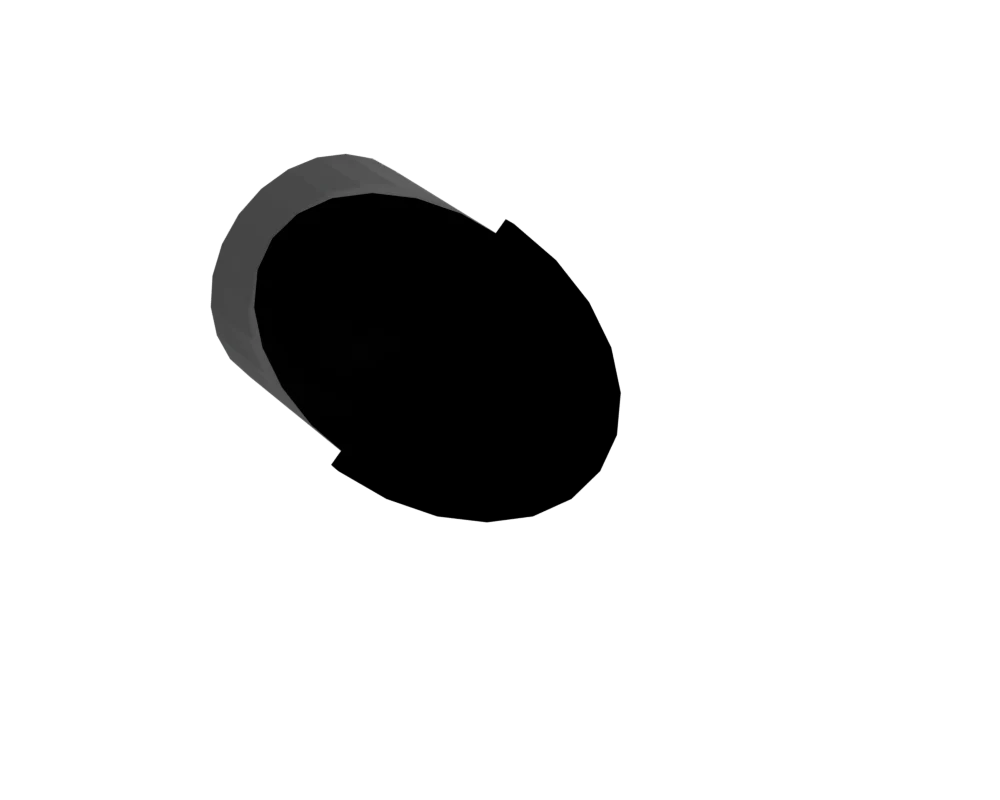
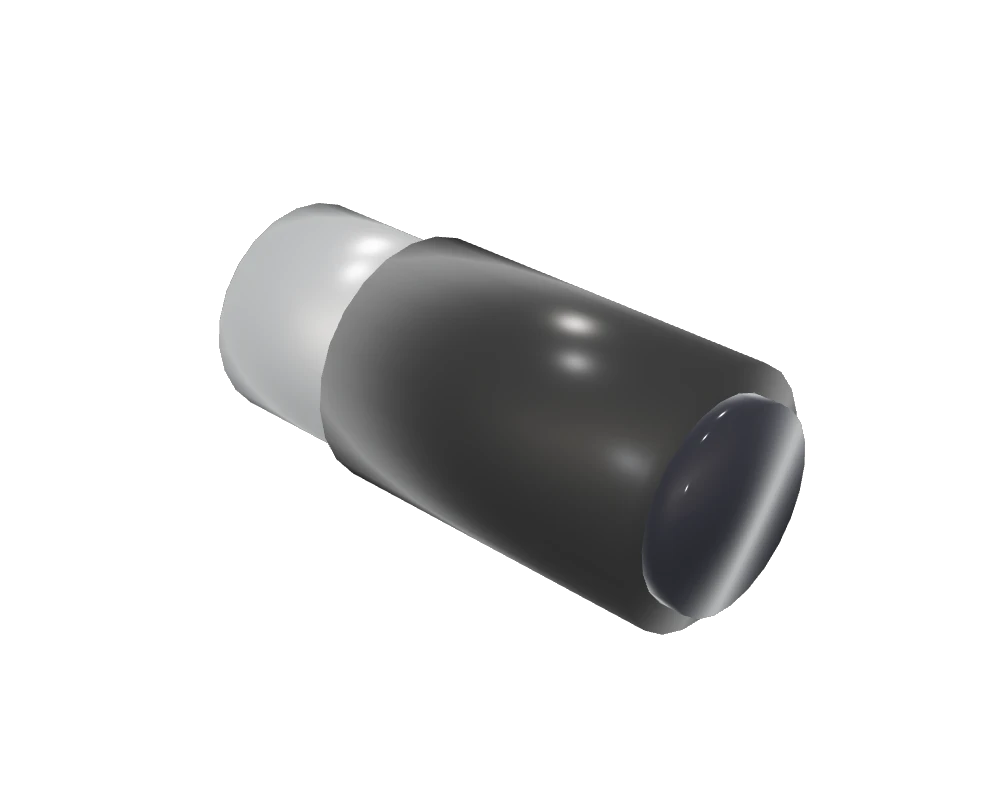
Components: the camera fills its panel, and the lens reads
The 3D locator now shows the assembled-camera still until its first
frame is drawn, and reports ready only once every material has compiled
and a frame is on screen, so the panel never opens on an empty floor.
At every stage the camera keeps the rail's direction and moves to fit the
parts' box in the panel's narrower field of view; the stack is spread a
little less, so its parts stay large. A test hook measures the fit.

The lens still, which showed a black disc seen end on, is re-rendered
from the site's own model by scripts/still-part.mjs: alone on a
transparent background, three-quarters on from above, lit from the
camera and from behind so the barrel and the glass read.

Changed region(s): [[0.186, 0.1875, 0.806, 0.8125]]

diff --git a/src/locator.ts b/src/locator.ts
@@ -3,7 +3,10 @@
  * component isolates it and frames it; the stage slider separates the parts front to back. Renders only
  * while the locator is on screen.
  */
-import { Vector3 } from "@babylonjs/core/Maths/math.vector";
+import { Vector3, Matrix } from "@babylonjs/core/Maths/math.vector";
+import { Color4 } from "@babylonjs/core/Maths/math.color";
+import { Scene } from "@babylonjs/core/scene";
+import { DirectionalLight } from "@babylonjs/core/Lights/directionalLight";
 import { bootEngine } from "./engine";
 import { createWorld, explodeAmount, type World } from "./scene/world";
 import { evalRail, PoseTween, type Pose } from "./scene/rail";
@@ -14,15 +17,82 @@ import rail from "./content/animation.json";
 
 const easeOutCubic = (u: number) => 1 - Math.pow(1 - u, 3);
 
-export interface Locator { world: World; scene: World["scene"]; engine: ReturnType<World["scene"]["getEngine"]>; frame: number }
+export interface Locator { world: World; scene: World["scene"]; engine: ReturnType<World["scene"]["getEngine"]>; frame: number;
+  /** The share of the canvas the parts cover on screen, and whether they all lie inside it (for tests). */
+  fit(): { w: number; h: number; inside: boolean } }
+
+/** The eight corners of every part's box in world space. */
+function partCorners(world: World): Vector3[] {
+  const out: Vector3[] = [];
+  for (const rec of world.parts.values()) {
+    const { min, max } = rec.node.getHierarchyBoundingVectors(true);
+    for (const x of [min.x, max.x]) for (const y of [min.y, max.y]) for (const z of [min.z, max.z]) out.push(new Vector3(x, y, z));
+  }
+  return out;
+}
+
+/** Move a pose along its own view direction so the parts fill the frame: the box they span, seen from the pose's
+ *  direction, fits the narrower of the two fields of view with `margin` to spare. */
+function fitPose(dest: { pos: Vector3; target: Vector3; fov: number }, up: Vector3, corners: Vector3[], aspect: number, margin: number): void {
+  const back = dest.pos.subtract(dest.target).normalize(), fwd = back.scale(-1);
+  const right = Vector3.Cross(fwd, up).normalize(), upv = Vector3.Cross(right, fwd).normalize();
+  let x0 = Infinity, x1 = -Infinity, y0 = Infinity, y1 = -Infinity, z0 = Infinity, z1 = -Infinity;
+  for (const c of corners) {
+    const v = c.subtract(dest.target);
+    const x = Vector3.Dot(v, right), y = Vector3.Dot(v, upv), z = Vector3.Dot(v, fwd);
+    x0 = Math.min(x0, x); x1 = Math.max(x1, x); y0 = Math.min(y0, y); y1 = Math.max(y1, y); z0 = Math.min(z0, z); z1 = Math.max(z1, z);
+  }
+  const center = dest.target.add(right.scale((x0 + x1) / 2)).add(upv.scale((y0 + y1) / 2)).add(fwd.scale((z0 + z1) / 2));
+  const tv = Math.tan(dest.fov / 2), th = tv * aspect;
+  const d = Math.max((x1 - x0) / 2 / th, (y1 - y0) / 2 / tv) * margin + (z1 - z0) / 2;
+  dest.target.copyFrom(center);
+  dest.pos.copyFrom(center.add(back.scale(d)));
+}
+
+/** One part alone on a transparent background, three-quarters on from above, for the parts grid (`?still=lens`). */
+async function renderStill(canvas: HTMLCanvasElement, world: World, id: string): Promise<void> {
+  const { scene, camera } = world;
+  const engine = scene.getEngine();
+  const rec = world.parts.get(id);
+  if (!rec) throw new Error(`still: no part ${id}`);
+  scene.clearColor = new Color4(0, 0, 0, 0);
+  scene.fogMode = Scene.FOGMODE_NONE;
+  for (const p of scene.postProcessRenderPipelineManager.supportedPipelines) p.dispose();
+  const keep = new Set(rec.node.getChildMeshes(false));
+  for (const m of scene.meshes) m.isVisible = keep.has(m);
+  world.isolate(null);
+  // light it so a dark part keeps its edges: brighter surroundings, a fill from the camera, a rim from behind
+  scene.environmentIntensity = 1.2;
+  world.fill.intensity = 1.4;
+  world.hemi.intensity = 0.8;
+  const M = world.falcon ? world.falcon.getWorldMatrix() : Matrix.Identity();
+  const rim = new DirectionalLight("still-rim", Vector3.TransformNormal(new Vector3(0.6, -0.5, -0.6), M).normalize(), scene);
+  rim.intensity = 1.6;
+  const { min, max } = rec.node.getHierarchyBoundingVectors(true);
+  const c = min.add(max).scale(0.5), r = Vector3.Distance(min, max) / 2;
+  // about 55 degrees off the lens axis (the body's +z), from the front, above and to the left
+  const dir = Vector3.TransformNormal(new Vector3(-0.55, 0.45, 0.5), M).normalize();
+  camera.fov = 26 * Math.PI / 180;
+  camera.minZ = 0.001;
+  camera.position.copyFrom(c.add(dir.scale((r / Math.tan(camera.fov / 2)) * 1.15)));
+  camera.upVector.copyFrom(Vector3.TransformNormal(new Vector3(0, 1, 0), M).normalize());
+  camera.setTarget(c);
+  Object.assign(canvas.style, { position: "fixed", left: "0", top: "0", width: "1000px", height: "800px", zIndex: "100" });
+  engine.resize();
+  await scene.whenReadyAsync();
+  for (let i = 0; i < 30; i++) { scene.render(); await new Promise((res) => requestAnimationFrame(res)); }
+  (window as unknown as { __still?: string }).__still = canvas.toDataURL("image/webp", 0.9);
+}
 
 export async function initLocator(canvas: HTMLCanvasElement, status: HTMLElement): Promise<Locator> {
-  const boot = await bootEngine(canvas);
+  const stillPart = new URLSearchParams(location.search).get("still");
+  const boot = await bootEngine(canvas, { still: !!stillPart });
   const { engine } = boot;
   set({ tier: boot.tier, reducedMotion: matchMedia("(prefers-reduced-motion: reduce)").matches });
   status.textContent = `${boot.backend} · ${boot.tier}`;
   const world = await createWorld(engine, boot.tier);
   const { scene, camera } = world;
+  if (stillPart) { await renderStill(canvas, world, stillPart); return { world, scene, engine, frame: 0, fit: () => ({ w: 0, h: 0, inside: true }) }; }
   camera.minZ = 0.02;
   const partList = components.parts.slice().sort((a, b) => a.order - b.order);
   const n = partList.length;
@@ -46,7 +116,13 @@ export async function initLocator(canvas: HTMLCanvasElement, status: HTMLElement
   let tweening = false;
   subscribe((s, changed) => { if (changed.has("explodeStage")) { stage.from = stage.v; stage.to = s.explodeStage / 5; stage.t0 = performance.now(); } });
 
-  const api: Locator = { world, scene, engine, frame: 0 };
+  const api: Locator = { world, scene, engine, frame: 0, fit() {
+    const w = engine.getRenderWidth(), h = engine.getRenderHeight();
+    const vp = camera.viewport.toGlobal(w, h), m = scene.getTransformMatrix();
+    let x0 = Infinity, x1 = -Infinity, y0 = Infinity, y1 = -Infinity;
+    for (const c of partCorners(world)) { const p = Vector3.Project(c, Matrix.Identity(), m, vp); x0 = Math.min(x0, p.x); x1 = Math.max(x1, p.x); y0 = Math.min(y0, p.y); y1 = Math.max(y1, p.y); }
+    return { w: (x1 - x0) / w, h: (y1 - y0) / h, inside: x0 >= -1 && y0 >= -1 && x1 <= w + 1 && y1 <= h + 1 };
+  } };
   scene.onBeforeRenderObservable.add(() => {
     api.frame++;
     const now = performance.now();
@@ -59,8 +135,8 @@ export async function initLocator(canvas: HTMLCanvasElement, status: HTMLElement
     for (const p of partList) {
       const rec = world.parts.get(p.id);
       if (!rec) continue;
-      // A tighter spread than the full-width stage used, so the stack fits the portrait frame.
-      rec.node.position.copyFrom(rec.rest).addInPlace(rec.explode.scale(0.6 * explodeAmount(stage.v, p.order - 1, n)));
+      // A tighter spread than the full-width stage used, so the stack fits the portrait frame with its parts large.
+      rec.node.position.copyFrom(rec.rest).addInPlace(rec.explode.scale(0.45 * explodeAmount(stage.v, p.order - 1, n)));
     }
     // Shell: see-through while assembled, solid once apart. While a part is isolated the isolation owns every
     // part's visibility, so the shell is left alone and re-applied when the isolation ends.
@@ -85,6 +161,8 @@ export async function initLocator(canvas: HTMLCanvasElement, status: HTMLElement
       up.set(lerp(0, zAxis.x, k), lerp(1, zAxis.y, k), lerp(0, zAxis.z, k)).normalize();
     } else up.set(0, 1, 0);
     const rec = state.focusedPart ? world.parts.get(state.focusedPart) : undefined;
+    // the parts fill the frame at every stage: the rail sets the direction, the fit sets the distance
+    if (!rec) fitPose(dest, up, partCorners(world), engine.getAspectRatio(camera), 1.08);
     if (rec) {
       const bb = rec.node.getHierarchyBoundingVectors(true);
       const c = bb.min.add(bb.max).scale(0.5);
@@ -110,6 +188,9 @@ export async function initLocator(canvas: HTMLCanvasElement, status: HTMLElement
   engine.runRenderLoop(() => { if (visible) scene.render(); });
   const ro = new ResizeObserver(() => engine.resize());
   ro.observe(canvas);
+  // ready once every material has compiled and a frame is on screen, so the panel never shows an empty stage
+  await scene.whenReadyAsync();
+  await new Promise<void>((res) => scene.onAfterRenderObservable.addOnce(() => res()));
   set({ ready: true, mode: "3d" });
   return api;
 }

diff --git a/tests/smoke.spec.ts b/tests/smoke.spec.ts
@@ -171,6 +171,12 @@ test("components page: knolling grid in five groups with a 3D locator on desktop
   await instant(page);
   await expect(page.locator("#status")).toContainText(/webgl2|webgpu/);
   expect(await page.evaluate(() => window.__flock!.state.mode)).toBe("3d");
+  // ready means a frame is drawn: the poster has stepped aside and the assembled camera fills the panel
+  await expect(page.locator("#locator-img")).toBeHidden();
+  await settled(page);
+  const fit0 = await page.evaluate(() => (window.__flock as unknown as { locatorFit(): { w: number; h: number; inside: boolean } }).locatorFit());
+  expect(fit0.inside).toBe(true);
+  expect(fit0.h).toBeGreaterThanOrEqual(0.55);
   await nav(page, "Components");
   await expect(page.locator(".sections a", { hasText: "Data" })).toHaveAttribute("href", "../data/");
   await expect(page.locator("#knolling .group")).toHaveCount(5);
@@ -195,6 +201,10 @@ test("components page: knolling grid in five groups with a 3D locator on desktop
   await expect.poll(() => page.evaluate(() => window.__flock!.state.explodeStage)).toBe(5);
   await expect(page.locator("#explode-readout")).toContainText("Stage 5 of 5");
   await settled(page);
+  // apart, the stack still fills the frame and stays inside it
+  const fit5 = await page.evaluate(() => (window.__flock as unknown as { locatorFit(): { w: number; h: number; inside: boolean } }).locatorFit());
+  expect(fit5.inside).toBe(true);
+  expect(Math.max(fit5.w, fit5.h)).toBeGreaterThanOrEqual(0.65);
   await page.screenshot({ path: "test-results/components.png" });
   // The Components chip and the skip link stay on this page
   await page.locator(".sections a.is-active").click();

diff --git a/src/engine.ts b/src/engine.ts
@@ -19,11 +19,12 @@ function guessTier(): Tier {
   return "high";
 }
 
-/** Prefer WebGPU, fall back to WebGL2. Query ?gl=1 forces the fallback for testing. */
-export async function bootEngine(canvas: HTMLCanvasElement): Promise<Boot> {
+/** Prefer WebGPU, fall back to WebGL2. Query ?gl=1 forces the fallback for testing; `still` renders one image on a
+ *  transparent WebGL2 canvas whose pixels can be read back (scripts/still-part.mjs). */
+export async function bootEngine(canvas: HTMLCanvasElement, o: { still?: boolean } = {}): Promise<Boot> {
   const tier = guessTier();
   const q = new URLSearchParams(location.search);
-  const forceGL = q.has("gl");
+  const forceGL = q.has("gl") || !!o.still;
   // ?fail3d simulates a device where no engine can start, to exercise the stills fallback.
   if (q.has("fail3d")) throw new Error("3D disabled by ?fail3d");
   const dpr = tier === "low" ? Math.min(devicePixelRatio, 1.25) : Math.min(devicePixelRatio, 2);
@@ -44,7 +45,7 @@ export async function bootEngine(canvas: HTMLCanvasElement): Promise<Boot> {
       console.warn("WebGPU init failed, falling back to WebGL2", e);
     }
   }
-  const engine = new Engine(canvas, true, { adaptToDeviceRatio: false, powerPreference: "high-performance", preserveDrawingBuffer: false, stencil: true, alpha: false }, false);
-  engine.setHardwareScalingLevel(1 / dpr);
+  const engine = new Engine(canvas, true, { adaptToDeviceRatio: false, powerPreference: "high-performance", preserveDrawingBuffer: !!o.still, stencil: true, alpha: !!o.still, premultipliedAlpha: false }, false);
+  engine.setHardwareScalingLevel(o.still ? 1 : 1 / dpr);
   return { engine, backend: "webgl2", tier };
 }

diff --git a/src/components-page.ts b/src/components-page.ts
@@ -85,6 +85,7 @@ async function initLocator(): Promise<void> {
   const fallback = (why: unknown) => {
     console.warn("locator: stills", why);
     canvas.hidden = true; ui.hidden = true;
+    img.classList.remove("is-poster");
     img.src = still("explode-0"); img.hidden = false;
     note.textContent = "The assembled camera. Select a part for its record.";
     status.textContent = "stills";
@@ -92,11 +93,14 @@ async function initLocator(): Promise<void> {
   };
   if (wantStills) { fallback("small screen"); return; }
   canvas.hidden = false;
+  // the assembled still stands in until the 3D view has drawn its first frame
+  img.src = still("explode-0"); img.alt = "The assembled Falcon camera"; img.classList.add("is-poster"); img.hidden = false;
   try {
     const { initLocator: boot } = await import("./locator");
     const loc = await boot(canvas, status);
+    img.hidden = true; img.classList.remove("is-poster");
     ui.hidden = false;
-    (window as unknown as { __flock: unknown }).__flock = { state, set, scene: loc.scene, engine: loc.engine, world: loc.world, get frame() { return loc.frame; } };
+    (window as unknown as { __flock: unknown }).__flock = { state, set, scene: loc.scene, engine: loc.engine, world: loc.world, get frame() { return loc.frame; }, locatorFit: () => loc.fit() };
     const input = document.getElementById("explode-stage") as HTMLInputElement;
     const readout = document.getElementById("explode-readout")!;
     const setStage = (n: number) => set({ explodeStage: Math.max(0, Math.min(5, Math.round(n))) });

diff --git a/src/document.css b/src/document.css
@@ -125,7 +125,8 @@ main { display: flex; flex-direction: column; gap: 3rem; width: min(var(--wide),
 /* ---- Components: locator beside the parts on desktop, stacked on phones -------------------------------------- */
 .components { display: grid; grid-template-columns: minmax(16rem, 20rem) minmax(0, 1fr); gap: 2rem; align-items: start; }
 .locator { position: sticky; top: calc(var(--topbar-h) + 1rem); display: flex; flex-direction: column; gap: .6rem; padding: 0; }
-.locator-fig { margin: 0; aspect-ratio: 4 / 5; background: var(--bg-2); overflow: hidden; }
+.locator-fig { position: relative; margin: 0; aspect-ratio: 4 / 5; background: var(--bg-2); overflow: hidden; }
+.locator-fig img.is-poster { position: absolute; inset: 0; }
 .locator-fig canvas, .locator-fig img { width: 100%; height: 100%; display: block; object-fit: contain; touch-action: none; outline: none; }
 .locator-ui { display: grid; gap: .3rem; }
 .locator-note { margin: 0; font: 400 .8125rem/1.45 var(--sans); color: var(--ink-3); }
